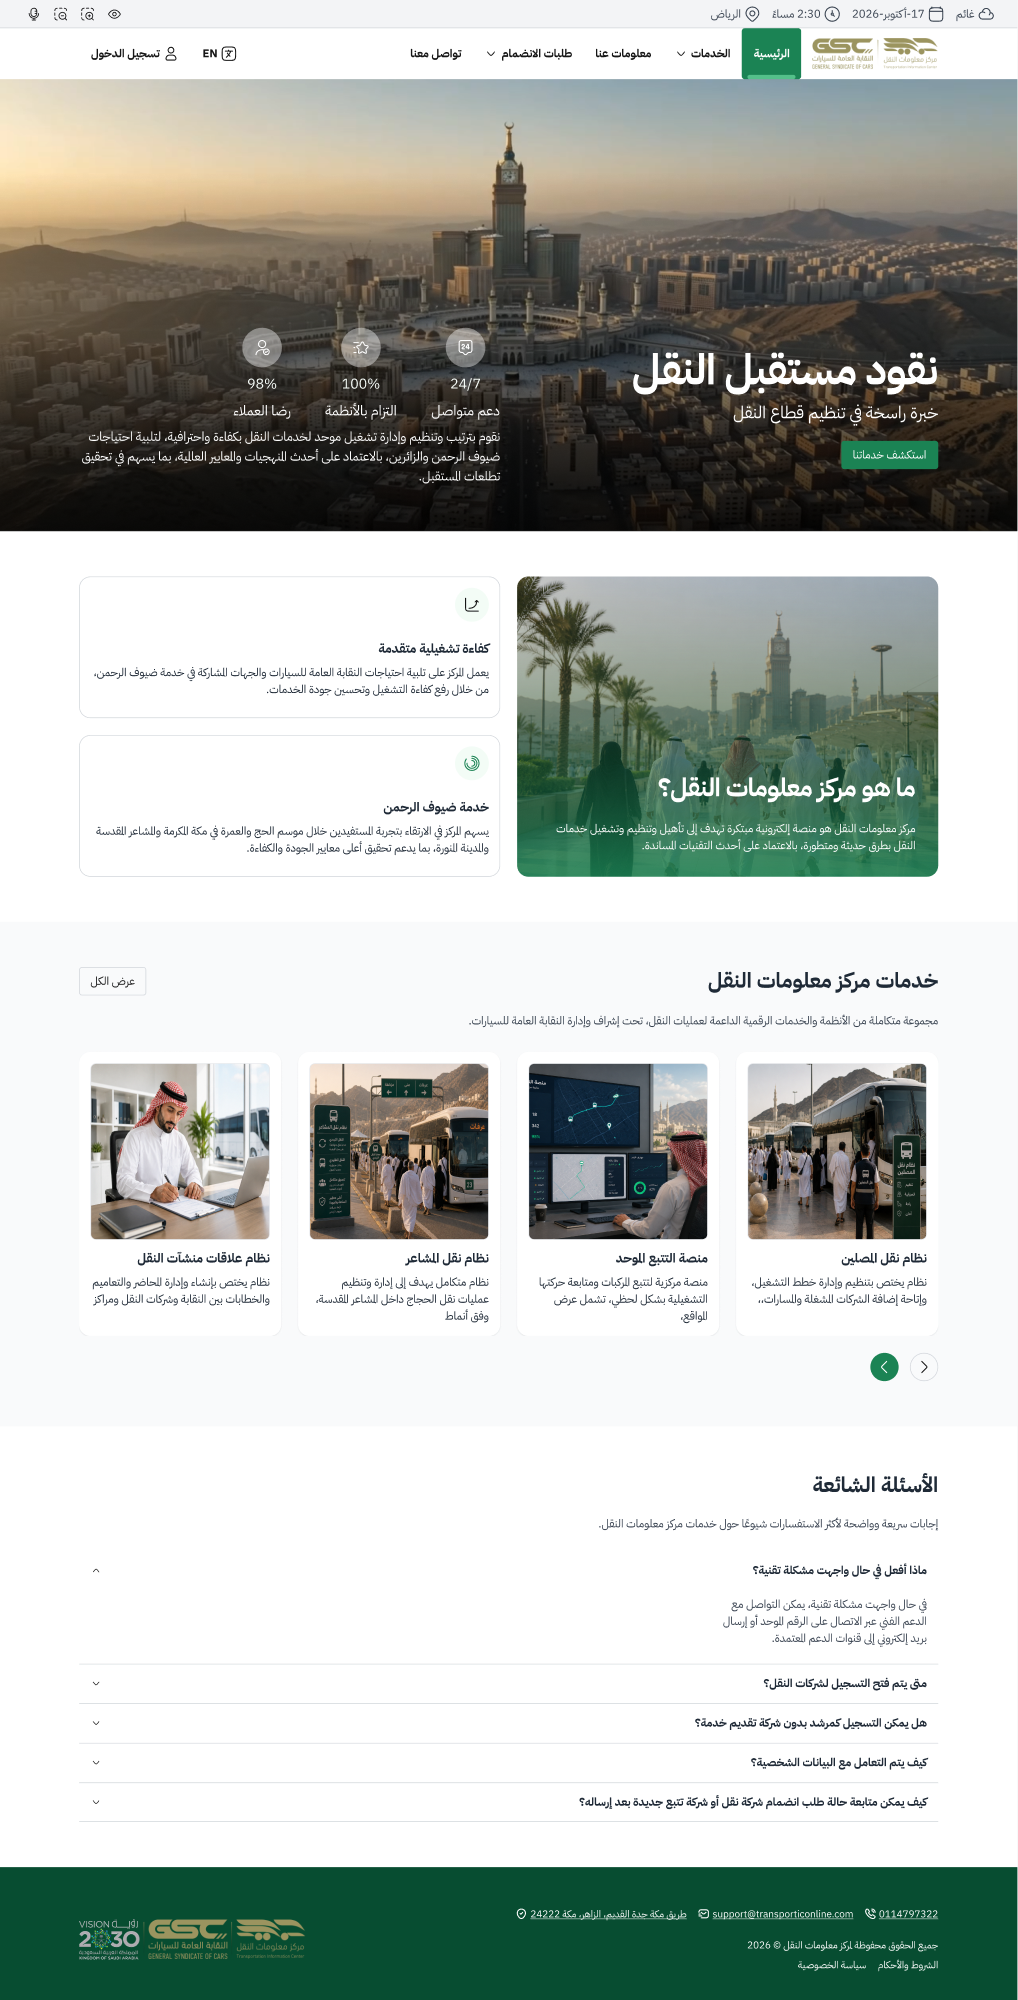
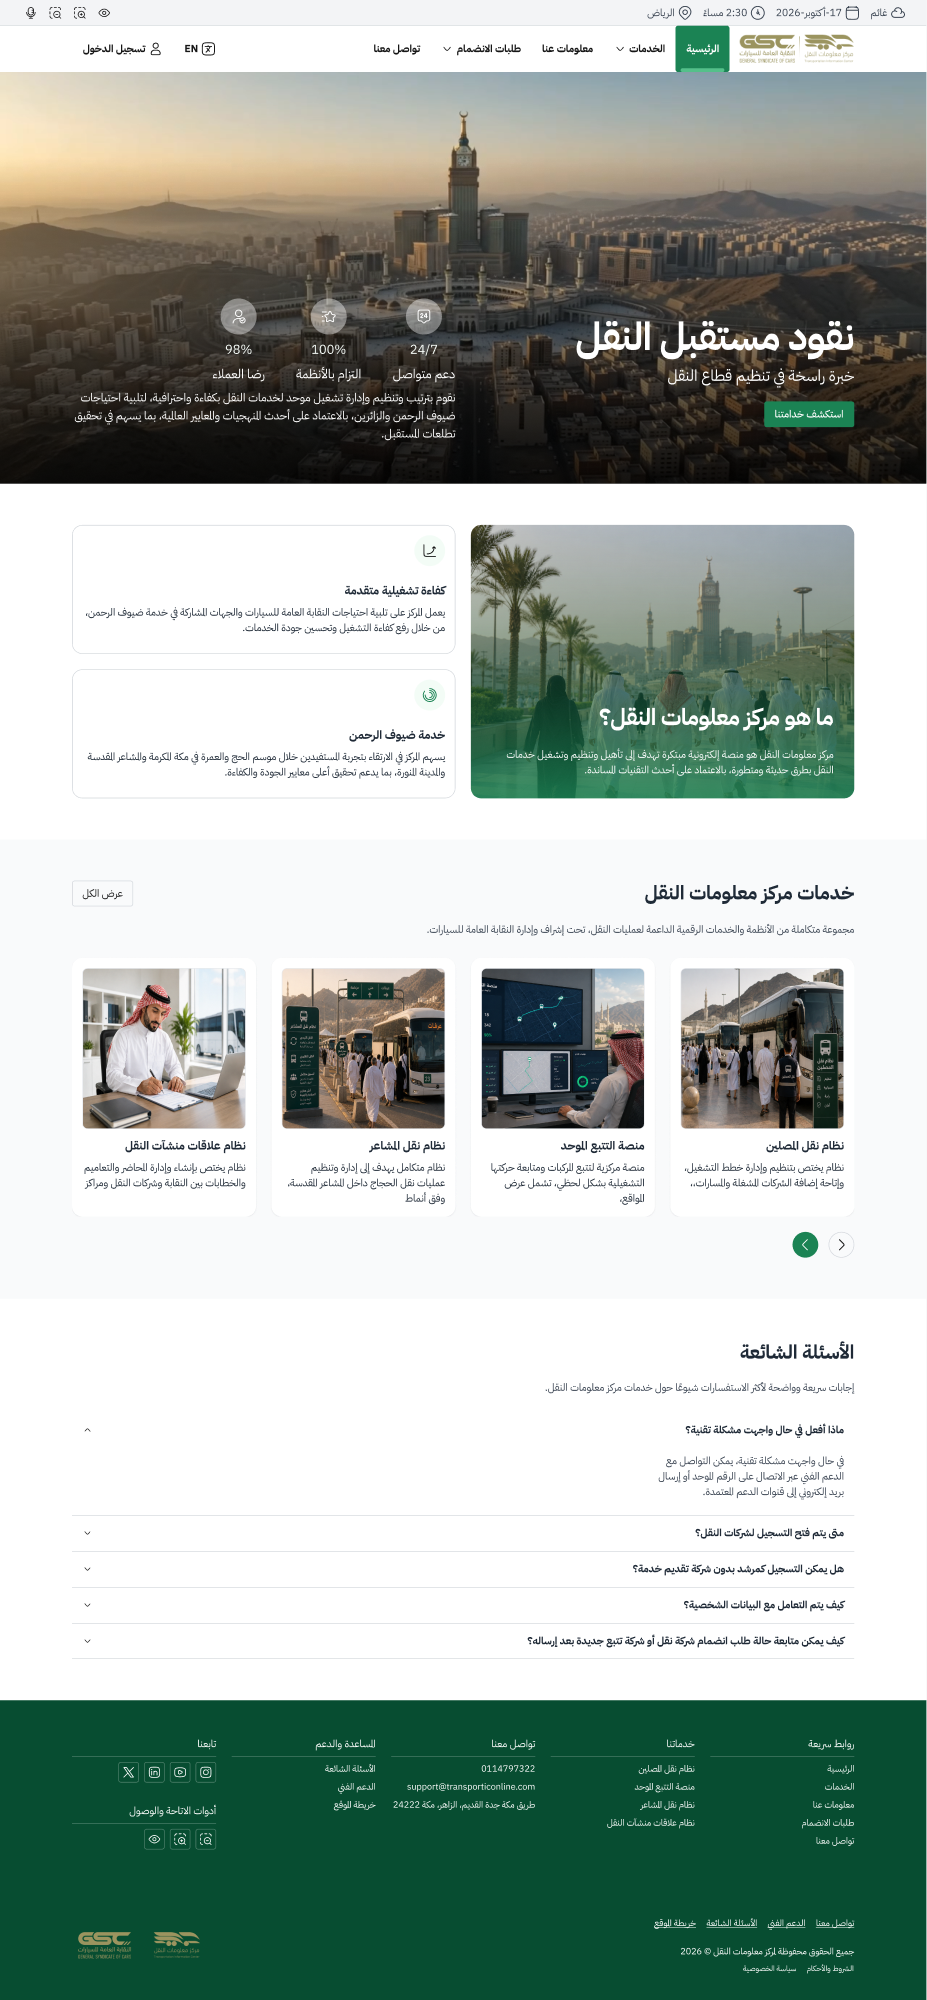
Add DGA footer and before/after board notes for the homepage v2
Claude-Session: https://claude.ai/code/session_01CyctH4WFBszWbBNkvnfQuz

diff --git a/CLAUDE.md b/CLAUDE.md
@@ -179,7 +179,21 @@ All four libraries are published and reachable through `search_design_system`.
     Hero content 1216 = two 6-column halves (596 + 24 + 596); title column gap 24 (was 22).
   - Sections: padding 64/112, radius 0, no gap between sections. About `8:1476` white (two halves of 596; image card
     `8:1481` text 32 from the edges), Services `8:1500` neutral-50 (4 cards × 286 + 3 × 24 = 1216, equal heights),
-    FAQ `8:1516` white (gold 6% fill removed), Footer `8:1525` padding 112, fill = DGA Footer token `Background/background-SA-Flag`.
+    FAQ `8:1516` white (gold 6% fill removed).
+  - **Footer = DGA `Footer` instance** `12:6666` (set `aa4c5b3f…`, RTL=True, Dark green, 600+; fill `background-SA-Flag`),
+    padding 112, Content FILL 1216. Old custom footer deleted. Groups (right → left): روابط سريعة (nav items) · خدماتنا
+    (the 4 services) · تواصل معنا (phone, email, address) · المساعدة والدعم (الأسئلة الشائعة, الدعم الفني, خريطة الموقع);
+    5th placeholder group hidden. Social group renamed «تابعنا» with X / LinkedIn / YouTube / Instagram icons; accessibility
+    tools = view / zoom-in-area / zoom-out-area. Bottom links: تواصل معنا · الدعم الفني · الأسئلة الشائعة · خريطة الموقع.
+    Caption «جميع الحقوق محفوظة لمركز معلومات النقل © 2026».
+  - Footer logos: nested `Logo Placeholder` instances are locked at 98×42 (size can't be overridden), so the real lockup
+    was split into two local components on the page (`12:7117` مركز معلومات النقل, `12:7119` النقابة العامة للسيارات;
+    cropped image fills) and swapped in. Vision 2030 has no third slot, so it is not shown.
+  - Tip: set `figma.skipInvisibleInstanceChildren=false` before reaching hidden instance sublayers by id.
+- **Before/after board** (user asked for it): section `16:749` «قبل وبعد — توافق الصفحة الرئيسية مع DGA» at y3400 under both frames.
+  Snapshots of the original and v2 (after-snapshot `18:1743`, refresh it if v2 changes), 12 numbered pins (red = before, green = after)
+  and a 13-row table «الفروقات بالترتيب» (`16:2175`) with قبل/بعد per item. The user rearranged it (before on the left).
+  Preview `previews/dga-homepage/3-before-after.png`.
   - Removed: gold pattern (1,133 vectors), #f8f7f5 dots, hidden pagination, hidden footer nav links, Swap Placeholders.
   - Copy: استكشف خدماتنا · نظام نقل المصلين · منشآت · الأسئلة الشائعة · التزام بالأنظمة · «نقود مستقبل النقل» (no kashida/ellipsis)
     · stats 98% / 100% / 24/7 · «جميع الحقوق محفوظة لمركز معلومات النقل © 2026». Crypto icon → `chart-increase`.
